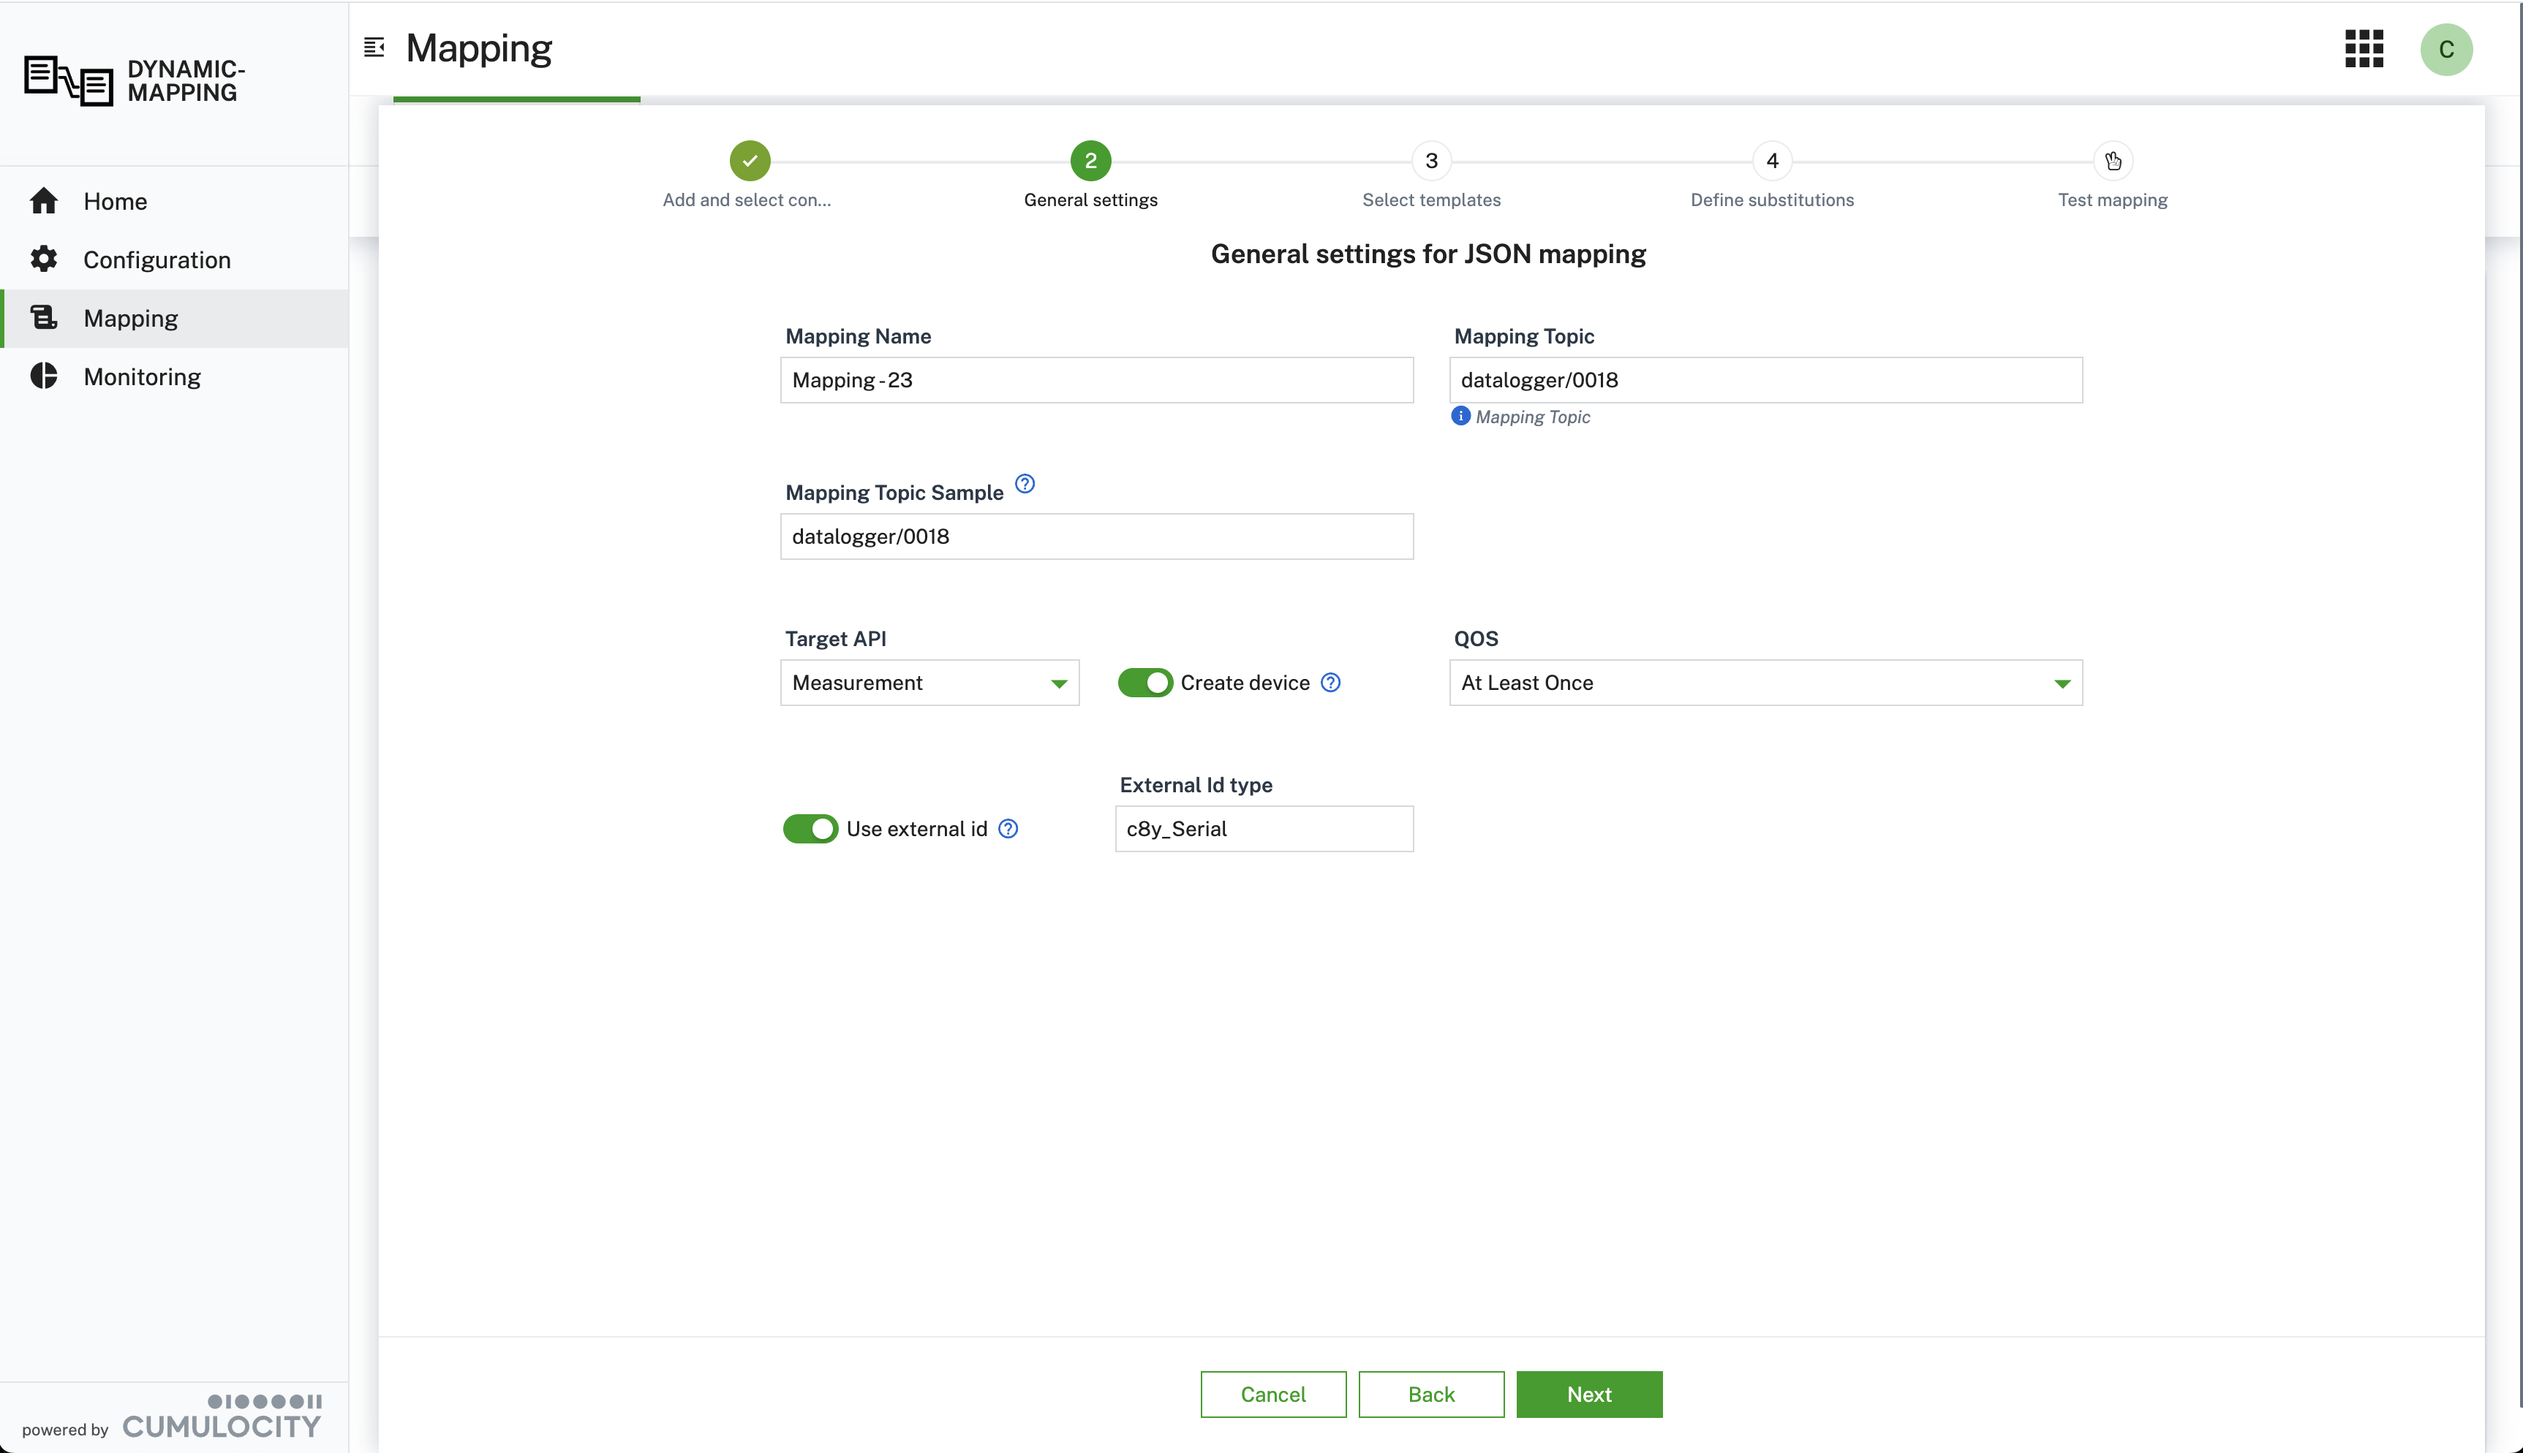
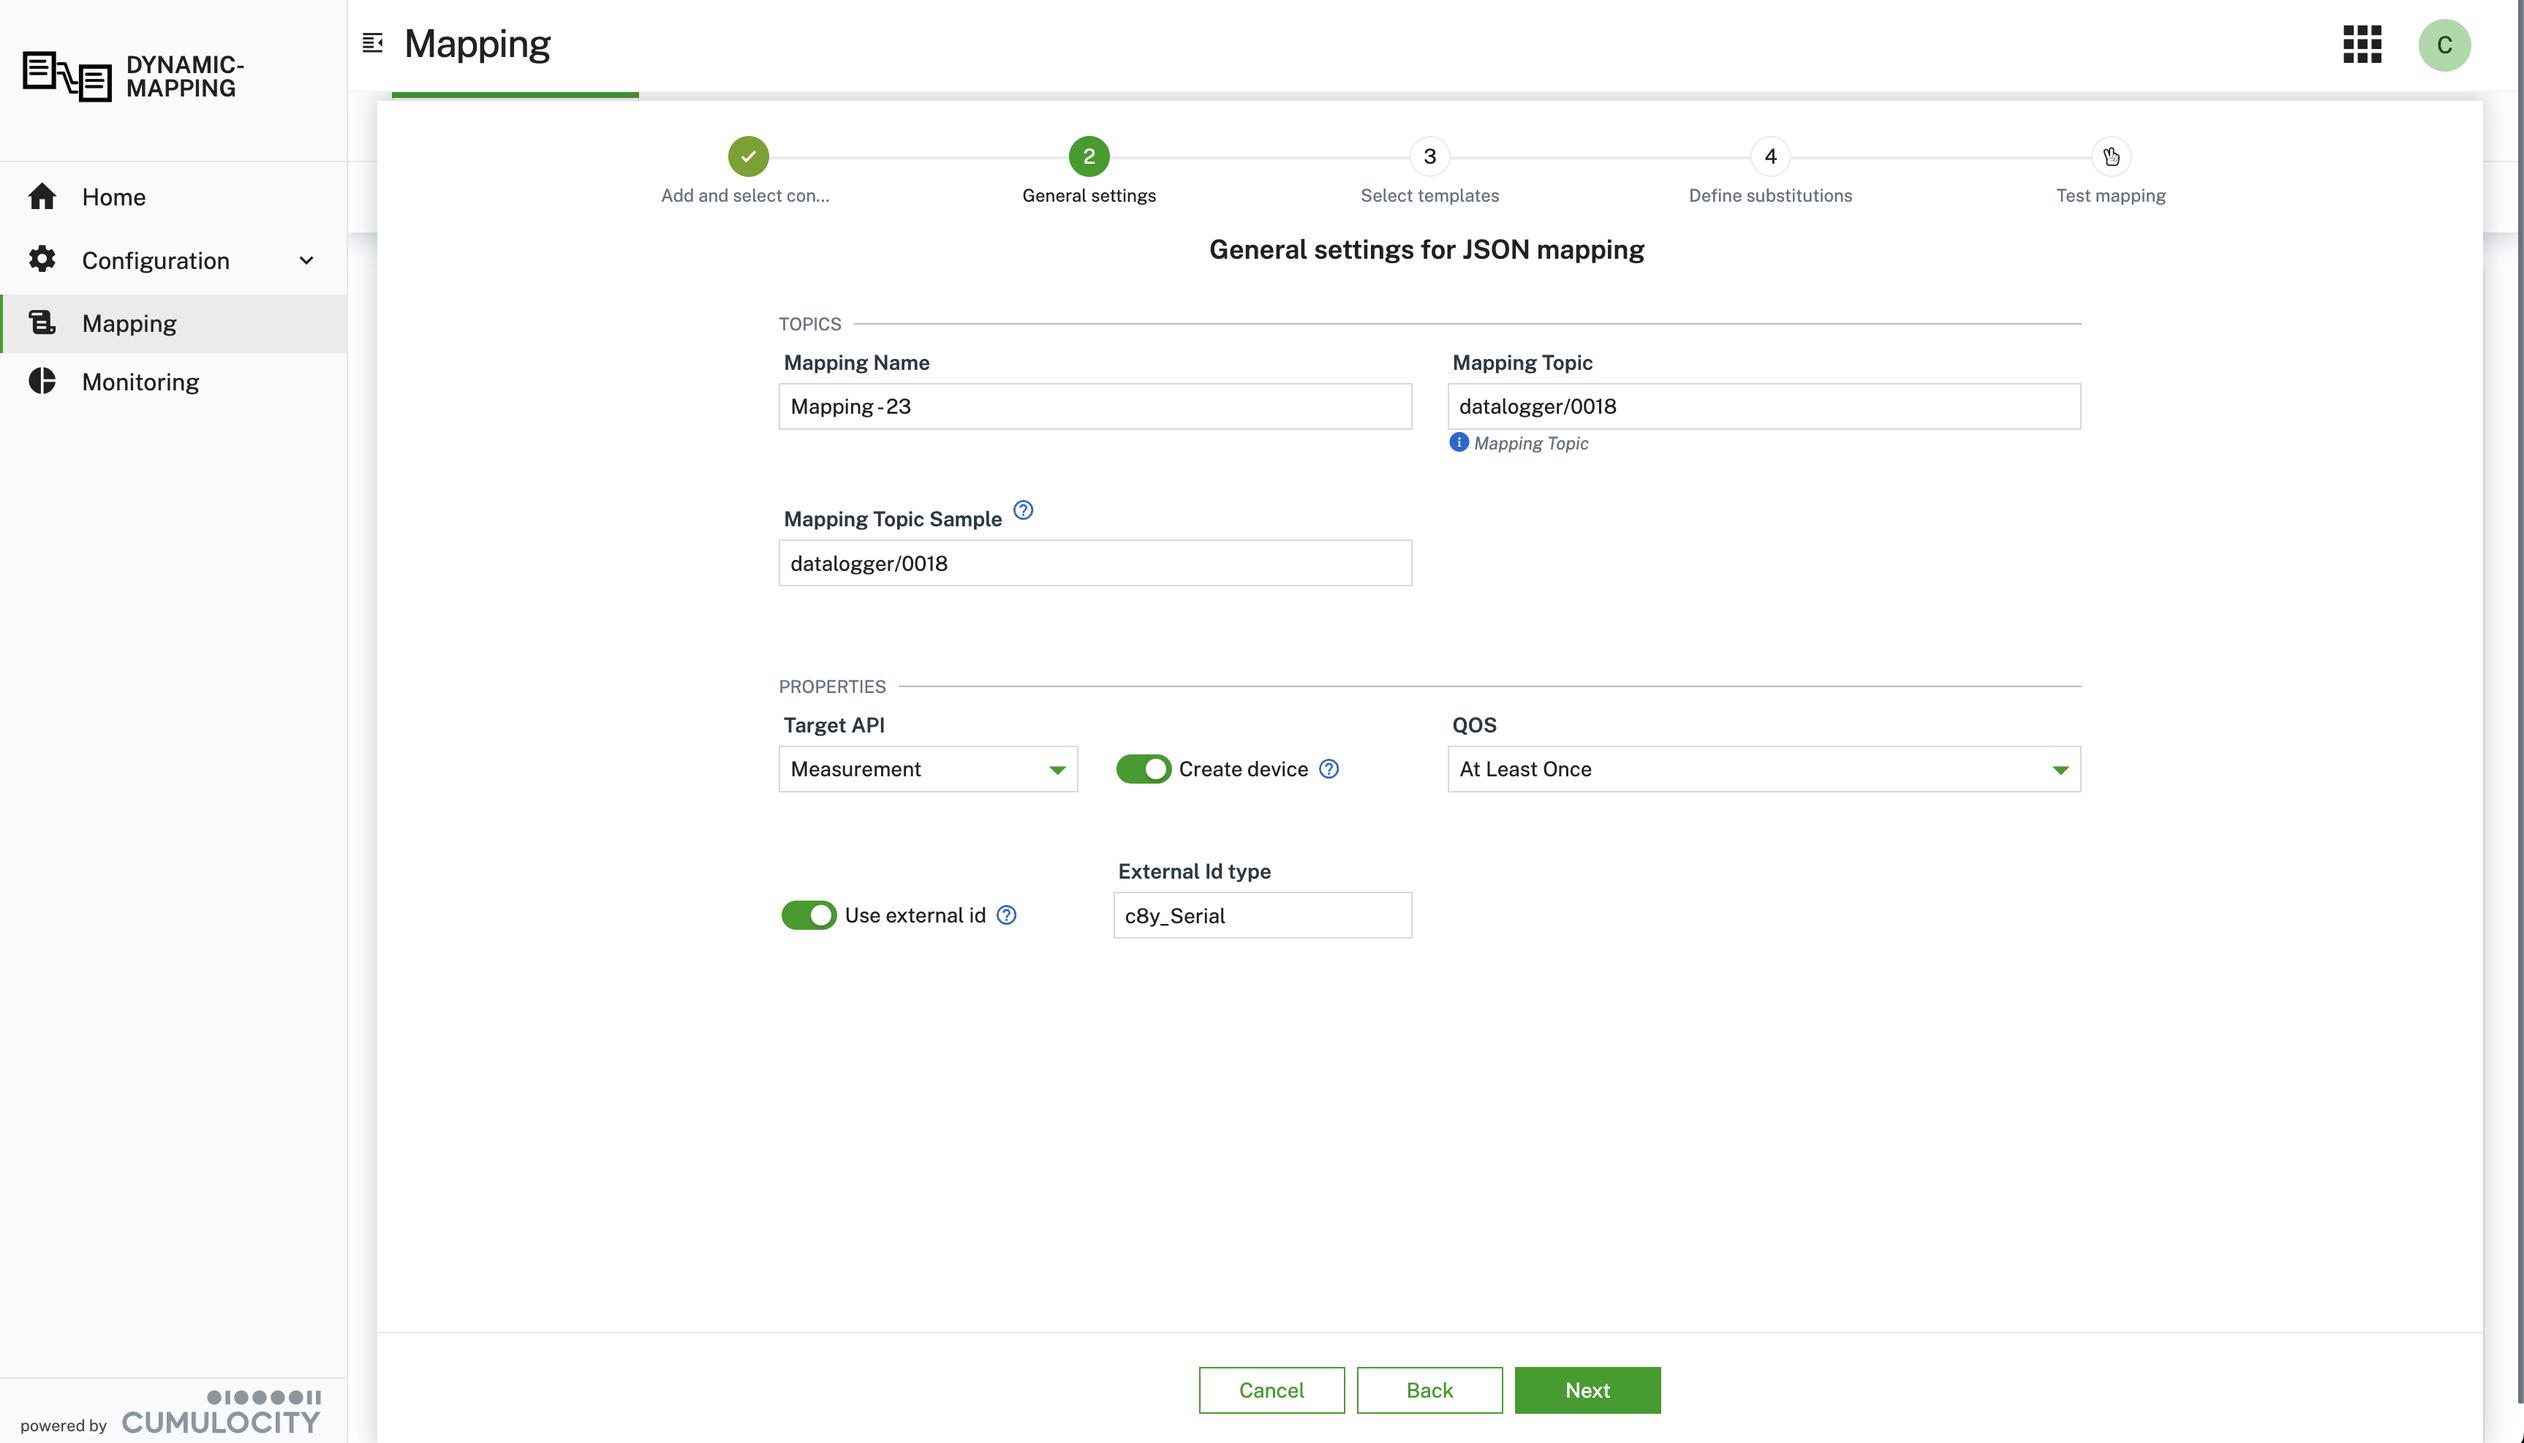
change screenshots

diff --git a/dynamic-mapping-ui/src/mapping/step-property/mapping-properties.component.html b/dynamic-mapping-ui/src/mapping/step-property/mapping-properties.component.html
@@ -52,6 +52,7 @@
     <div class="card-block p-b-0">
       <div [formGroup]="propertyFormly">
         <div class="col-md-6 col-md-offset-3 col-lg-8 col-lg-offset-2">
+          <div class="legend form-block col-xs-12">Topics</div>
           <formly-form
             [form]="propertyFormly"
             [fields]="propertyFormlyFields"

diff --git a/dynamic-mapping-ui/src/mapping/step-property/mapping-properties.component.ts b/dynamic-mapping-ui/src/mapping/step-property/mapping-properties.component.ts
@@ -237,6 +237,10 @@ export class MappingStepPropertiesComponent
           }
         ]
       },
+      {  
+        type: 'template',
+        template: '<div class="legend form-block col-xs-12">Properties</div>'
+      },
       {
         fieldGroupClassName: 'row',
         fieldGroup: [
